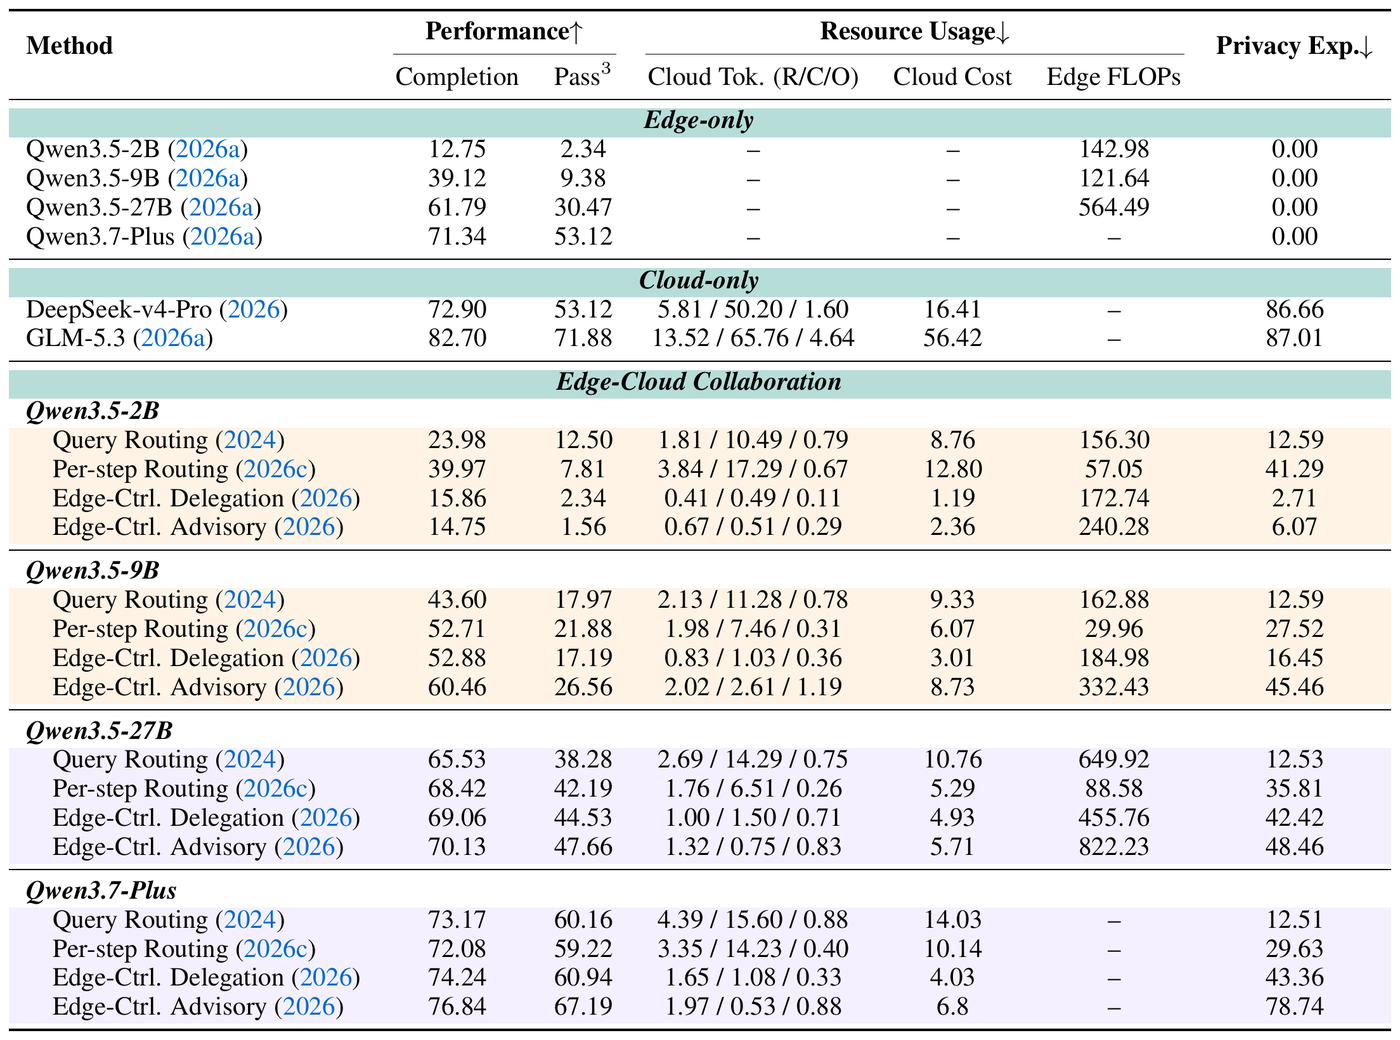
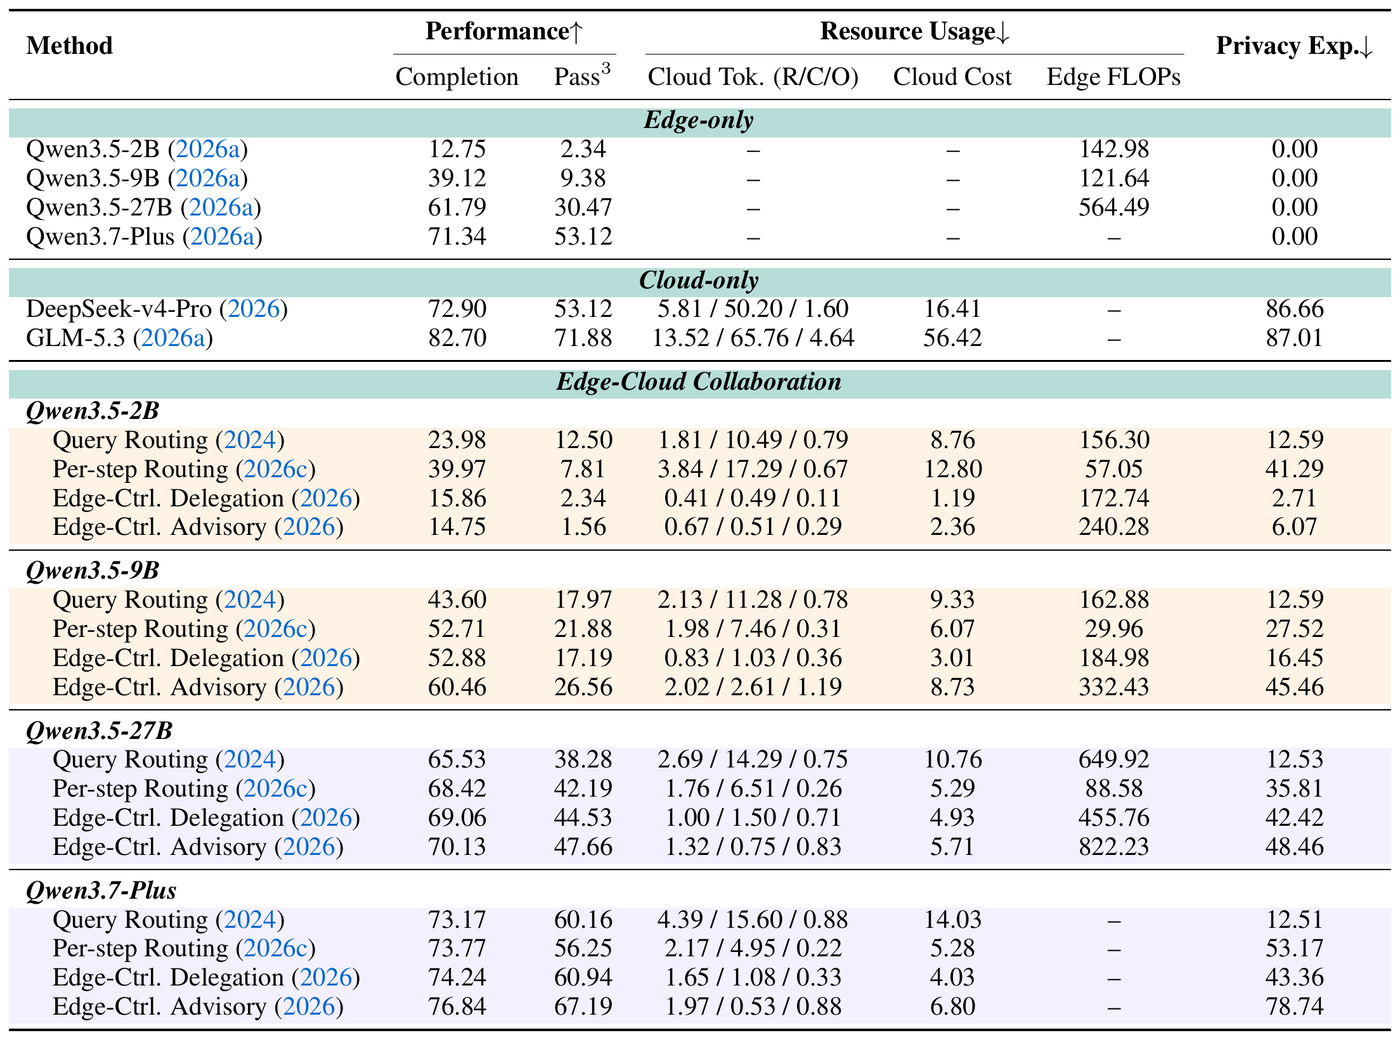
README: update leaderboard to revised Table 2 / Table 11
Qwen3.7-Plus Per-step Routing was re-run in the paper (GLM-5.3: 72.08 -> 73.77
completion; DeepSeek-V4.1-Flash: 71.77 -> 73.86). Re-crop both leaderboard
screenshots from the new PDF and update the RQ2 completion gap for
Qwen3.7-Plus from 4.76 to 3.67.

diff --git a/README.md b/README.md
@@ -23,7 +23,7 @@ EC²-Bench pairs **128 executable digital-workspace tasks** (100 with fine-grain
 ### Key Findings
 
 1. **Edge–cloud collaboration works for long-horizon agents (RQ1).** Partial cloud participation improves performance over edge-only execution at a fraction of cloud-only cost and exposure. With Qwen3.5-2B, Per-step Routing lifts completion from 12.75 to 39.97 at 22.7% of cloud-only cost, and many configurations beat a linear edge↔cloud interpolation.
-2. **Stronger edges close the performance gap, not the privacy gap (RQ2).** The best collaborative configuration climbs from 39.97 (2B) to 76.84 (Qwen3.7-Plus), approaching cloud-only's 82.70. The completion gap across strategies narrows from 25.22 points (2B) to 4.76 (Qwen3.7-Plus), but privacy exposure does not converge: with Qwen3.7-Plus, strategies differ by only 4.76 points in completion but by 66.23 in privacy exposure.
+2. **Stronger edges close the performance gap, not the privacy gap (RQ2).** The best collaborative configuration climbs from 39.97 (2B) to 76.84 (Qwen3.7-Plus), approaching cloud-only's 82.70. The completion gap across strategies narrows from 25.22 points (2B) to 3.67 (Qwen3.7-Plus), but privacy exposure does not converge: with Qwen3.7-Plus, strategies differ by only 3.67 points in completion but by 66.23 in privacy exposure.
 3. **The best collaboration mode shifts with edge capability (RQ3).** Weak edges benefit most from external routing and direct cloud execution; stronger edges benefit more from edge-controlled invocation and cloud advisory. Two edge-side abilities underlie the shift: **deciding when to invoke the cloud** (up to +4.4 over a matched random-invocation baseline) and **following cloud guidance** (instruction-following training raises advisory completion from 24.8 to 28.8).
 
 ### Design Highlights
